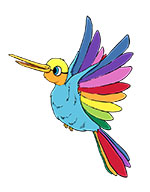
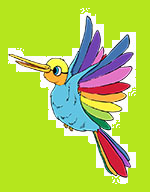
add animation

diff --git a/style.css b/style.css
@@ -1,5 +1,6 @@
 html {
   scroll-behavior: smooth;
+  box-sizing: border-box;
 }
 
 a {
@@ -7,11 +8,25 @@ a {
   color: black;
 }
 
+nav div {
+  background-color: lawngreen;
+}
+
+nav div:hover {
+  background-color: yellow;
+  cursor: pointer;
+}
+
+nav div:hover a {
+  color: red;
+}
+
 body {
   font-size: 62.5%;
   font-family: Arial, Helvetica, sans-serif;
   margin: 0;
   box-sizing: border-box;
+  width: 100vw;
 }
 
 #header-container {
@@ -20,18 +35,17 @@ body {
   justify-content: space-between;
   width: 100vw;
   height: 20vh;
+  background-color: yellowgreen;
 }
 
-#logo {
-  width: 80%;
-  transition-duration: 1s;
-  transition-delay: 0s;
-}
-
-#header-container:hover [alt="logo"] {
-  clip-path: inset(100% 100%);
-  transition: clip-path 2s;
-  transition-delay: 1s;
+[alt="logo"] {
+  width: 30vw;
+  height: 20vh;
+  visibility: hidden;
+  animation-name: logo_animation;
+  animation-duration: 2s;
+  animation-fill-mode: forwards;
+  animation-delay: 1s;
 }
 
 #header-container:hover [alt="colorie"] {
@@ -41,10 +55,15 @@ body {
 
 [alt="colorie"] {
   width: 80%;
-  transform: translate(-1222px, 0px);
+  height: 20vh;
+  /* transform: translate(-1222px, 0px); */
   visibility: hidden;
-  transition-duration: 1s;
-  transition-delay: 0s;
+  /* transition-duration: 1s;
+  transition-delay: 0s; */
+  animation-name: colorie_animation;
+  animation-duration: 1.4s;
+  animation-fill-mode: forwards;
+  animation-timing-function: ease-out;
 }
 
 [alt="colorieweb"] {
@@ -78,11 +97,17 @@ article {
 #synopsis {
   height: 100vh;
   padding: 10px;
+  margin-bottom: 100px;
   display: flex;
   justify-content: space-around;
 }
 
+#synopsis img {
+  padding-bottom: 20px;
+}
+
 #characters {
+  margin-top: 100px;
   width: 100vw;
   height: 100vh;
   display: flex;
@@ -91,37 +116,80 @@ article {
   justify-content: center;
 }
 
+#characters h1 {
+  background-color: yellow;
+  width: 50vw;
+  text-align: center;
+  margin-top: 0;
+  padding: 20px;
+}
+
 .row {
   display: flex;
   justify-content: space-evenly;
   align-items: center;
   width: inherit;
+  background-color: rgb(64, 172, 55);
+  padding: 25px;
+}
+
+.character:nth-child(2n) {
+  background-color: yellow;
+  overflow: hidden;
+}
+
+.character:nth-child(2n + 1) {
+  background-color: yellowgreen;
+  overflow: hidden;
+  color: yellow;
+}
+
+.character:hover img {
+  transform: scale(1.1);
+  transition: transform 1s;
 }
 
 #characters img {
   width: 20vw;
   height: 40vh;
+  cursor: pointer;
 }
 
 h2 {
   text-align: center;
+  font-size: 1.4rem;
 }
 
 #form {
+  padding-top: 25px;
+  margin-top: 100px;
   width: 100vw;
   height: 100vh;
+  background-image: linear-gradient(yellowgreen, yellow);
 }
 
 .form-control {
-  width: 100vw;
   display: flex;
   flex-direction: column;
   padding: 10px;
 }
 
-label,
 [type="submit"] {
-  font-size: 1.4rem;
+  font-size: 1.6rem;
+  width: 20vw;
+  background-color: red;
+  color: white;
+  margin: auto;
+}
+
+[type="submit"]:hover {
+  cursor: pointer;
+  background: yellowgreen;
+  color: red;
+}
+
+label {
+  font-size: 1.2rem;
 }
 
 input {
@@ -146,12 +214,54 @@ footer {
   display: flex;
   justify-content: space-between;
   align-items: center;
+  background-color: yellowgreen;
+  color: blue;
 }
-/* @keyframes animation {
+
+[alt="logo_one"] {
+  width: 30vw;
+  height: 20vh;
+}
+
+@keyframes logo_animation {
   from {
-    visibility: 100%;
+    visibility: hidden;
+    clip-path: circle(0 at 0 0);
   }
   to {
-    visibility: 0;
+    visibility: visible;
+    clip-path: circle(150% at 0 0);
   }
-} */
+}
+
+@keyframes logo_animation {
+  from {
+    visibility: hidden;
+    clip-path: circle(0 at 0 0);
+  }
+  to {
+    visibility: visible;
+    clip-path: circle(150% at 0 0);
+  }
+}
+
+@keyframes logo_animation {
+  from {
+    visibility: hidden;
+    clip-path: circle(0 at 0 0);
+  }
+  to {
+    visibility: visible;
+    clip-path: circle(150% at 0 0);
+  }
+}
+
+@keyframes colorie_animation {
+  from {
+    visibility: visible;
+  }
+  to {
+    visibility: hidden;
+    transform: translate(-1222px, 0px);
+  }
+}

diff --git a/index.html b/index.html
@@ -13,7 +13,7 @@
     <header>
       <div id="header-container">
         <div id="logo">
-          <img src="assets/logo21 colorful.png" alt="logo" />
+          <img src="assets/logo21 colorful.jpg" alt="logo" />
         </div>
         <div>
           <img src="assets/Colorie---Copy.png" alt="colorie" />
@@ -101,11 +101,11 @@
       </div>
       <div class="row">
         <div class="character">
-          <img src="assets/characters/santiago.jpeg" alt="alba" />
+          <img src="assets/characters/santiago.jpeg" alt="santiago" />
           <h2>Santiago</h2>
         </div>
         <div class="character">
-          <img src="assets/characters/sebastian.jpeg" alt="alba" />
+          <img src="assets/characters/sebastian.jpeg" alt="sebastian" />
           <h2>Sebastian</h2>
         </div>
         <div class="character">
@@ -113,7 +113,7 @@
           <h2>Mrs Alba</h2>
         </div>
         <div class="character">
-          <img src="assets/characters/ramona.jpeg" alt="alba" />
+          <img src="assets/characters/ramona.jpeg" alt="ramona" />
           <h2>Ramona</h2>
         </div>
       </div>
@@ -128,19 +128,25 @@
       <form>
         <div class="form-control">
           <label for="first_name"> First Name</label>
-          <input type="text" name="first_name" />
+          <input type="text" name="first_name" autofocus required />
         </div>
         <div class="form-control">
           <label for="last_name"> Last Name</label>
-          <input type="text" name="last_name" />
+          <input type="text" name="last_name" required />
         </div>
         <div class="form-control">
           <label for="email"> Email</label>
-          <input type="email" name="email" />
+          <input type="email" name="email" required />
         </div>
         <div class="form-control">
           <label for="message"> Message</label>
-          <textarea name="message" id="message" cols="30" rows="15"></textarea>
+          <textarea
+            name="message"
+            id="message"
+            cols="30"
+            rows="15"
+            required
+          ></textarea>
         </div>
 
         <div class="form-control">
@@ -153,13 +159,14 @@
 
     <footer>
       <div id="list">
+        <div><a href="#header-container">Header</a></div>
         <div><a href="#synopsis">Synopsis</a></div>
         <div><a href="#characters">Characters</a></div>
         <div><a href="#form">Contact Us</a></div>
       </div>
 
       <div id="logo-footer">
-        <img src="assets/logo21 colorful.png" alt="logo" />
+        <img src="assets/logo21 colorful.jpg" alt="logo_one" />
       </div>
     </footer>
   </body>
